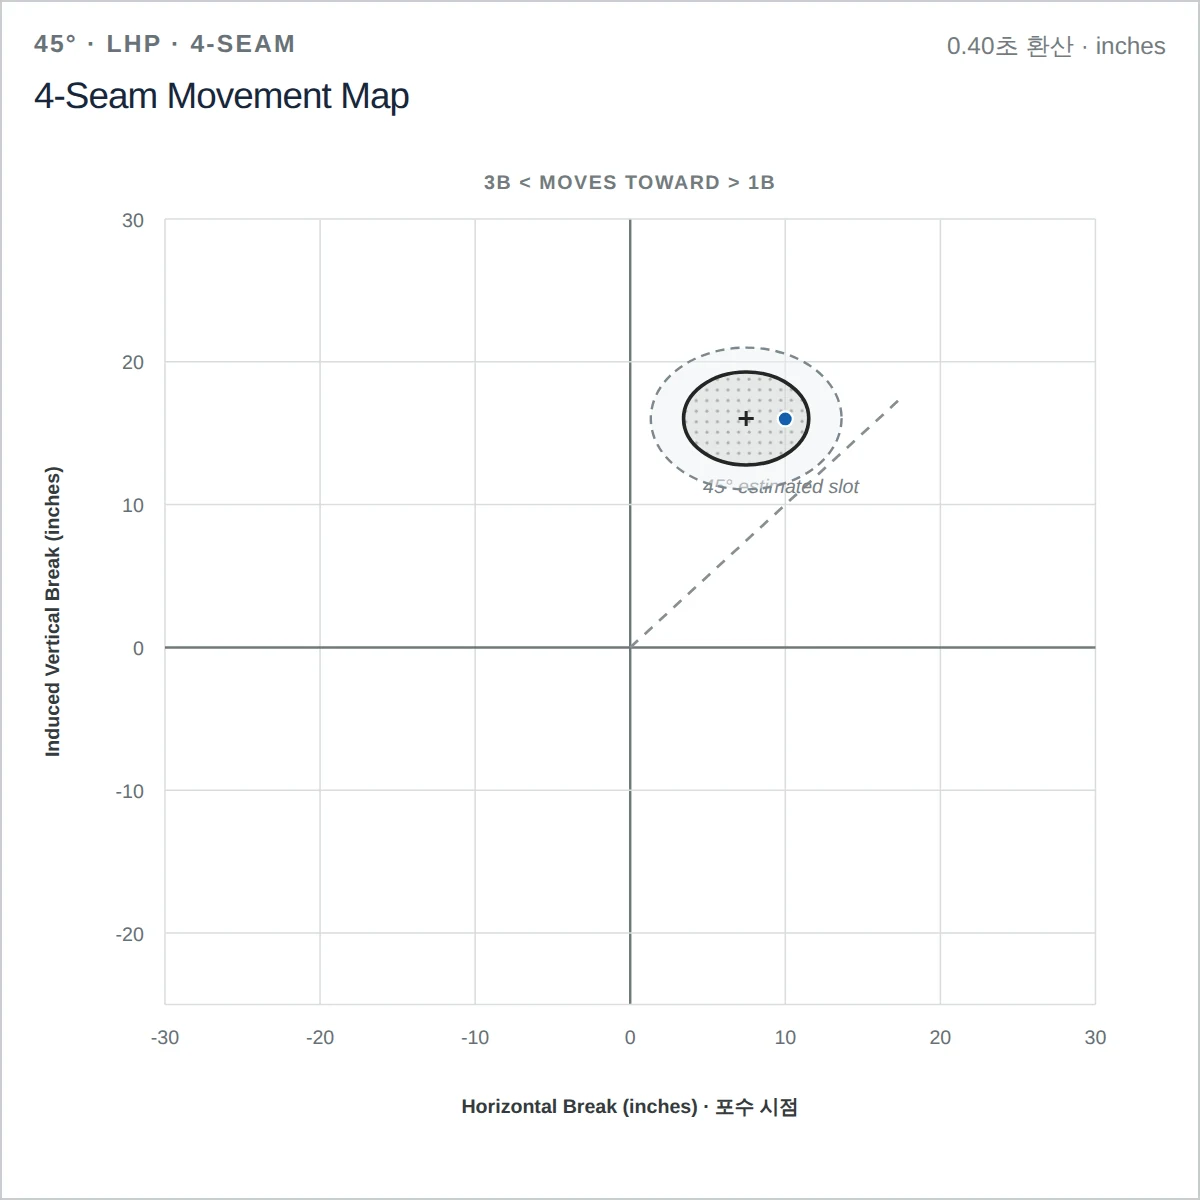
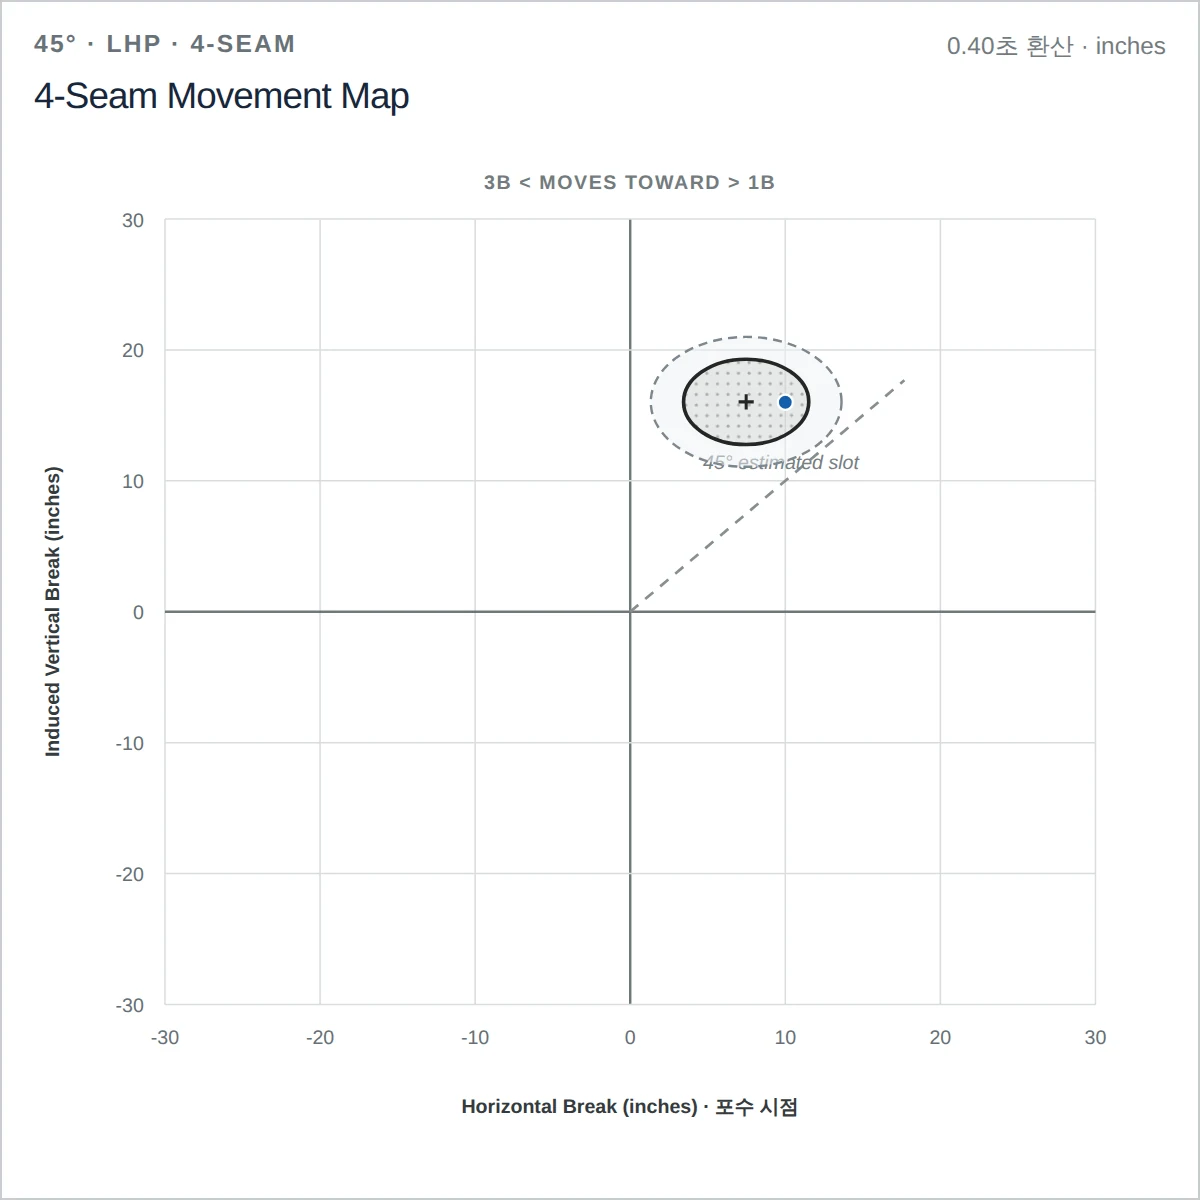
웹: Movement Zones IVB 축을 -30~30으로 맞춰 아래 격자 잘림 수정
- 축 범위를 눈금 간격(10인치)의 배수로: IVB 하한 -25 → -30, AXIS·PX_X·PX_Y 상수로 통합
- 타원 공분산 스케일도 같은 상수 사용, 플롯 영역 크기는 그대로
- tests/test_movement_zones_layout.cjs: 축 범위가 눈금 배수이고 네 테두리에 라벨 있는 눈금선이 있는지 검사
- 홈 썸네일 재생성 (?v= 올림)

Claude-Session: https://claude.ai/code/session_01WBJQmpkKovLjvDPPyrJFb5

diff --git a/web/movement-zones/movement-zones.js b/web/movement-zones/movement-zones.js
@@ -13,7 +13,9 @@ viewInput.value=params.get('view')==='whiff'?'whiff':'expected';
 if(selectedHand==='L') compareHb.value='10';
 const fmt=n=>`${n>0?'+':''}${n.toFixed(1)}`.replace('-', '−');
 const rangeText=range=>`${fmt(range[0])} ~ ${fmt(range[1])}`;
-const sx=x=>92+(x+30)*(616/60), sy=y=>574-(y+25)*(520/55);
+// 플롯 영역(92..708 × 54..574)의 네 테두리는 모두 10인치 눈금과 맞아야 합니다(tests/test_movement_zones_layout.cjs).
+const AXIS={xMin:-30,xMax:30,yMin:-30,yMax:30,step:10}, PX_X=616/(AXIS.xMax-AXIS.xMin), PX_Y=520/(AXIS.yMax-AXIS.yMin);
+const sx=x=>92+(x-AXIS.xMin)*PX_X, sy=y=>574-(y-AXIS.yMin)*PX_Y;
 const escapeHtml=s=>String(s).replace(/[&<>"']/g,c=>({'&':'&amp;','<':'&lt;','>':'&gt;','"':'&quot;',"'":'&#39;'}[c]));
 const handFactor=()=>selectedHand==='R'?-1:1;
 
@@ -36,10 +38,8 @@ function defs(){
 
 function grid(){
   let out='';
-  for(let x=-30;x<=30;x+=10) out+=`<line x1="${sx(x)}" y1="54" x2="${sx(x)}" y2="574" class="grid ${x===0?'zero':''}"/><text x="${sx(x)}" y="600" text-anchor="middle" class="axis-text">${x}</text>`;
-  // Keep the -25 plot floor as a frame edge without a label; labeled lines stay on 10-inch steps.
-  out+=`<line x1="92" y1="${sy(-25)}" x2="708" y2="${sy(-25)}" class="grid"/>`;
-  for(let y=-20;y<=30;y+=10) out+=`<line x1="92" y1="${sy(y)}" x2="708" y2="${sy(y)}" class="grid ${y===0?'zero':''}"/><text x="78" y="${sy(y)+5}" text-anchor="end" class="axis-text">${y}</text>`;
+  for(let x=AXIS.xMin;x<=AXIS.xMax;x+=AXIS.step) out+=`<line x1="${sx(x)}" y1="54" x2="${sx(x)}" y2="574" class="grid ${x===0?'zero':''}"/><text x="${sx(x)}" y="600" text-anchor="middle" class="axis-text">${x}</text>`;
+  for(let y=AXIS.yMin;y<=AXIS.yMax;y+=AXIS.step) out+=`<line x1="92" y1="${sy(y)}" x2="708" y2="${sy(y)}" class="grid ${y===0?'zero':''}"/><text x="78" y="${sy(y)+5}" text-anchor="end" class="axis-text">${y}</text>`;
   return `${out}<text x="400" y="34" text-anchor="middle" class="direction-label">3B &lt; MOVES TOWARD &gt; 1B</text><text x="400" y="646" text-anchor="middle" class="axis-title">Horizontal Break (inches) · 포수 시점</text><text x="22" y="314" text-anchor="middle" class="axis-title" transform="rotate(-90 22 314)">Induced Vertical Break (inches)</text>`;
 }
 
@@ -50,8 +50,8 @@ function armLine(angle){
 
 function expectedSvg(zone,level){
   const cx=sx(zone.center[0]*handFactor()), cy=sy(zone.center[1]);
-  const xx=zone.covariance[0][0]*(616/60)**2, yy=zone.covariance[1][1]*(520/55)**2;
-  const xy=-handFactor()*zone.covariance[0][1]*(616/60)*(520/55);
+  const xx=zone.covariance[0][0]*PX_X**2, yy=zone.covariance[1][1]*PX_Y**2;
+  const xy=-handFactor()*zone.covariance[0][1]*PX_X*PX_Y;
   const discriminant=Math.hypot(xx-yy,2*xy), radius=Math.sqrt(-2*Math.log(1-level));
   const rx=radius*Math.sqrt(Math.max(0,(xx+yy+discriminant)/2)), ry=radius*Math.sqrt(Math.max(0,(xx+yy-discriminant)/2));
   const rotation=Math.atan2(2*xy,xx-yy)*90/Math.PI;

diff --git a/web/index.html b/web/index.html
@@ -35,7 +35,7 @@
           <div class="visual-card__body"><h3>Pitch Plot</h3><p>투수별 구종 사용률·구속·구장 보정 HB·IVB</p><b>열기 →</b></div>
         </a>
         <a class="visual-card" href="movement-zones/">
-          <div class="visual-art" aria-hidden="true"><img src="assets/thumbnails/movement-zones.webp?v=20261004-1" alt=""></div>
+          <div class="visual-art" aria-hidden="true"><img src="assets/thumbnails/movement-zones.webp?v=20261004-2" alt=""></div>
           <div class="visual-card__body"><h3>Movement Zones</h3><p>팔각도·구종별 Elite·Average·Dead Zone</p><b>열기 →</b></div>
         </a>
       </div>

diff --git a/web/movement-zones/index.html b/web/movement-zones/index.html
@@ -90,6 +90,6 @@
     </section>
     <details class="model-details"><summary>데이터·회귀 검증</summary><div id="model-details">데이터를 불러오는 중…</div></details>
   </main>
-  <script src="movement-zones.js?v=20261003-1"></script>
+  <script src="movement-zones.js?v=20261004-1"></script>
 </body>
 </html>
